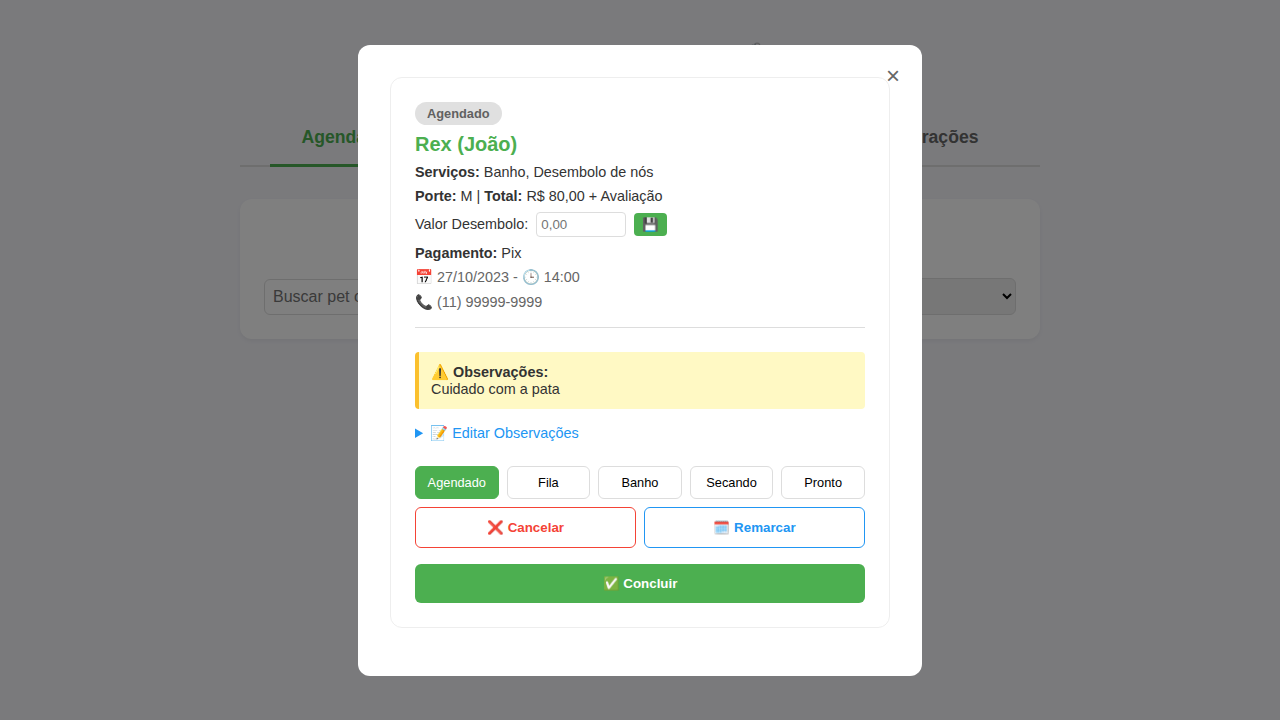
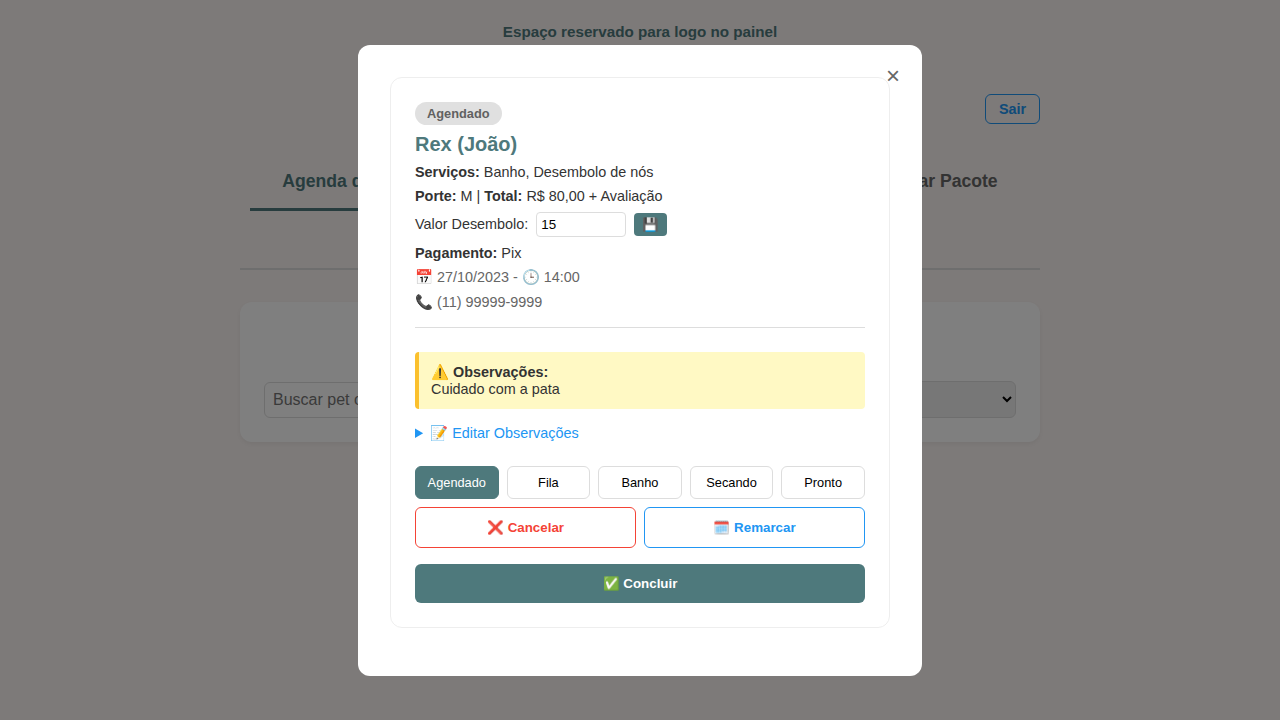
feat(ui): update color palette for a warmer SPA experience
- Replaced pure white card backgrounds with warm cream (#FAF4F2).
- Replaced faded khaki headers with Old Rose (#C49595).
- Styled extra services chips with a darker cream background (#F0E5E1) and colorized their emoji icons to match the Old Rose tone using CSS filters.
- Replaced text checkmarks with stylized spans and updated native checkbox accent colors to Primary Teal (#4E797C).
- Bumped CSS/JS version query strings to cache-bust (v=20).

diff --git a/index.html b/index.html
@@ -18,7 +18,7 @@
     <link rel="icon" href="assets/favicon-32x32.png" type="image/png" sizes="32x32">
     <link rel="apple-touch-icon" href="assets/apple-touch-icon.png">
 
-    <link rel="stylesheet" href="css/index.css?v=19">
+    <link rel="stylesheet" href="css/index.css?v=20">
 </head>
 <body>
 
@@ -203,9 +203,9 @@
                 <div class="pacote-card-header">Pacote 4 Banhos</div>
                 <div class="pacote-card-price" id="vitrine-price-plano1">Carregando...</div>
                 <ul class="pacote-card-list">
-                    <li>✔ 4 Banhos</li>
-                    <li>✔ 1 Hidratação</li>
-                    <li>✔ 1 Tosa Higiênica</li>
+                    <li><span class="checkmark-icon">✓</span> 4 Banhos</li>
+                    <li><span class="checkmark-icon">✓</span> 1 Hidratação</li>
+                    <li><span class="checkmark-icon">✓</span> 1 Tosa Higiênica</li>
                 </ul>
                 <div class="pacote-badge individual">Uso Individual</div>
             </div>
@@ -216,9 +216,9 @@
                 <div class="pacote-card-header plano-12">Pacote 12 Banhos</div>
                 <div class="pacote-card-price" id="vitrine-price-plano2">Carregando...</div>
                 <ul class="pacote-card-list">
-                    <li>✔ 12 Banhos</li>
-                    <li>✔ 3 Hidratações</li>
-                    <li>✔ 3 Tosas Higiênicas</li>
+                    <li><span class="checkmark-icon">✓</span> 12 Banhos</li>
+                    <li><span class="checkmark-icon">✓</span> 3 Hidratações</li>
+                    <li><span class="checkmark-icon">✓</span> 3 Tosas Higiênicas</li>
                 </ul>
                 <div class="pacote-badge shared">Permite Compartilhar</div>
             </div>
@@ -230,9 +230,9 @@
                 <div class="pacote-card-header plano-24">Pacote 24 Banhos</div>
                 <div class="pacote-card-price" id="vitrine-price-plano3">Carregando...</div>
                 <ul class="pacote-card-list">
-                    <li>✔ 24 Banhos</li>
-                    <li>✔ 5 Hidratações</li>
-                    <li>✔ 5 Tosas Higiênicas</li>
+                    <li><span class="checkmark-icon">✓</span> 24 Banhos</li>
+                    <li><span class="checkmark-icon">✓</span> 5 Hidratações</li>
+                    <li><span class="checkmark-icon">✓</span> 5 Tosas Higiênicas</li>
                 </ul>
                 <div class="pacote-badge shared">Permite Compartilhar</div>
             </div>
@@ -244,19 +244,19 @@
             <h3 style="margin-top: 0; color: var(--primary); text-align: center; margin-bottom: 1.5rem;">Adicione ao seu pacote:</h3>
             <div style="display: flex; flex-wrap: wrap; justify-content: center; gap: 1rem;">
                 <div class="extra-chip" style="flex: 1 1 200px; max-width: 300px;">
-                    <span>✂ Corte de unhas</span>
+                    <span><span class="extra-chip-icon">✂</span> Corte de unhas</span>
                     <strong id="vitrine-extra-unhas" style="color: var(--primary);">...</strong>
                 </div>
                 <div class="extra-chip" style="flex: 1 1 200px; max-width: 300px;">
-                    <span>🪥 Escovação dos dentes</span>
+                    <span><span class="extra-chip-icon">🪥</span> Escovação dos dentes</span>
                     <strong id="vitrine-extra-dentes" style="color: var(--primary);">...</strong>
                 </div>
                 <div class="extra-chip" style="flex: 1 1 200px; max-width: 300px;">
-                    <span>🪮 Carding</span>
+                    <span><span class="extra-chip-icon">🪮</span> Carding</span>
                     <strong id="vitrine-extra-carding" style="color: var(--primary);">...</strong>
                 </div>
                 <div class="extra-chip" style="flex: 1 1 200px; max-width: 300px;">
-                    <span>✨ Desembolo de nós</span>
+                    <span><span class="extra-chip-icon">✨</span> Desembolo de nós</span>
                     <strong id="vitrine-extra-desembolo" style="color: var(--primary);">...</strong>
                 </div>
             </div>
@@ -304,8 +304,8 @@
     </div>
 </div>
 
-<script src="config/runtime-config.js?v=19" defer></script>
-<script type="module" src="js/index.js?v=19"></script>
+<script src="config/runtime-config.js?v=20" defer></script>
+<script type="module" src="js/index.js?v=20"></script>
 
 
 </body>

diff --git a/css/index.css b/css/index.css
@@ -20,7 +20,7 @@
         }
 
         .container {
-            background-color: var(--surface);
+            background-color: var(--background);
             padding: 2rem;
             border-radius: 12px;
             box-shadow: 0 4px 6px rgba(0, 0, 0, 0.1);
@@ -66,7 +66,11 @@
         input:focus {
             outline: none;
             border-color: var(--primary);
-            box-shadow: 0 0 0 2px rgba(76, 175, 80, 0.2);
+            box-shadow: 0 0 0 2px rgba(78, 121, 124, 0.2);
+        }
+
+        input[type="checkbox"] {
+            accent-color: var(--primary);
         }
 
         button {
@@ -126,7 +130,7 @@
             display: flex;
             justify-content: space-between;
             margin-bottom: 2rem;
-            background-color: #f1f1f1;
+            background-color: #F0E5E1;
             border-radius: 8px;
             overflow: hidden;
         }
@@ -137,7 +141,7 @@
             font-size: 0.85rem;
             font-weight: 600;
             color: #888;
-            background-color: #e0e0e0;
+            background-color: #F0E5E1;
             transition: all 0.3s ease;
         }
         .step.active {
@@ -377,7 +381,7 @@
             border-color: var(--primary);
         }
         .pacote-card {
-            background: white;
+            background: var(--background);
             border: 1px solid var(--border);
             border-radius: 16px;
             padding: 0 1.5rem 1.5rem 1.5rem;
@@ -423,7 +427,7 @@
             font-size: 1.25rem;
             font-weight: bold;
             color: white;
-            background-color: var(--primary);
+            background-color: #C49595; /* Old Rose */
             text-align: center;
             margin: 0 -1.5rem 1rem -1.5rem;
             padding: 40px 1.5rem 1rem 1.5rem; /* Extra top padding to fit behind image */
@@ -431,10 +435,6 @@
             z-index: 1;
             border-top-left-radius: 14px;
             border-top-right-radius: 14px;
-        }
-
-        .pacote-card-header.plano-12 {
-            background-color: var(--sage);
         }
 
         .pacote-card.premium-card .pacote-card-header {
@@ -490,6 +490,12 @@
             align-items: center;
             gap: 0.5rem;
         }
+
+        .checkmark-icon {
+            color: #4E797C; /* Primary Teal */
+            font-weight: bold;
+            font-size: 1.1rem;
+        }
         .pacote-badge {
             font-size: 0.75rem;
             font-weight: 700;
@@ -510,8 +516,8 @@
 
         /* Extra Chips */
         .extra-chip {
-            background-color: white;
-            border: 1px solid var(--border);
+            background-color: #F0E5E1; /* Darker cream */
+            border: 1px solid #EED5D4;
             border-radius: 12px;
             padding: 1rem 1.25rem;
             display: flex;
@@ -521,6 +527,12 @@
             transition: transform 0.2s, box-shadow 0.2s;
             font-size: 0.95rem;
             font-weight: 500;
+        }
+
+        .extra-chip-icon {
+            display: inline-block;
+            margin-right: 0.5rem;
+            filter: grayscale(100%) brightness(0) invert(65%) sepia(16%) saturate(632%) hue-rotate(314deg) brightness(89%) contrast(90%); /* Approximates #C49595 (Old Rose) */
         }
         .extra-chip:hover {
             transform: translateY(-2px);
@@ -645,7 +657,7 @@
         .services-table {
             width: 100%;
             border-collapse: collapse;
-            background-color: var(--surface);
+            background-color: var(--background);
             font-size: 0.95rem;
         }
 
@@ -664,11 +676,11 @@
         }
 
         .services-table tbody tr:nth-child(even) {
-            background-color: var(--surface);
+            background-color: var(--background);
         }
 
         .services-table tbody tr:nth-child(odd) {
-            background-color: var(--background);
+            background-color: #f6ebe7; /* Slightly darker cream for contrast */
         }
 
         #services-description-screen {
